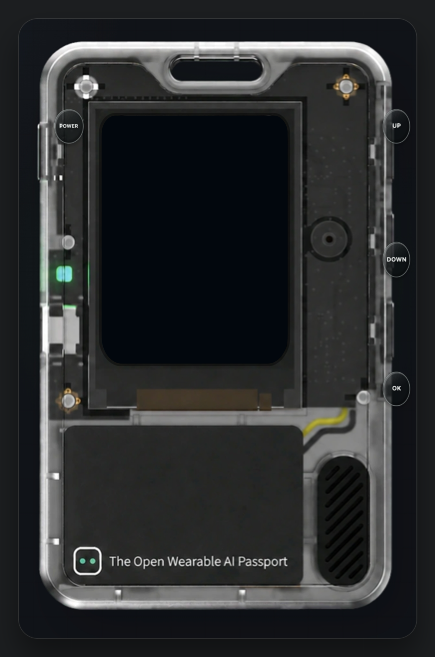
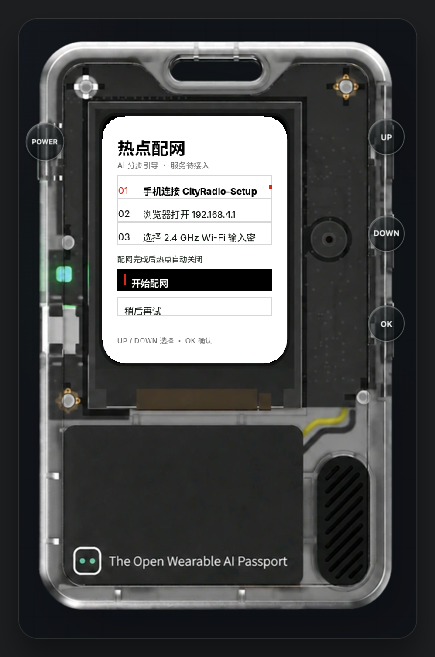
Center simulator controls on hardware keys

diff --git a/Sources/AIPassportFlasher/Views/SimulatorView.swift b/Sources/AIPassportFlasher/Views/SimulatorView.swift
@@ -760,6 +760,13 @@ final class SimulatorWebController: ObservableObject {
         await snapshot(configuration: nil)
     }
 
+    func setSnapshotNeutral(_ enabled: Bool) async {
+        guard let webView else { return }
+        _ = try? await webView.evaluateJavaScript(
+            "document.body.classList.toggle('apf-snapshot-neutral', \(enabled ? "true" : "false"))"
+        )
+    }
+
     private func snapshot(configuration: WKSnapshotConfiguration?) async -> NSImage? {
         guard let webView else { return nil }
         return await withCheckedContinuation { continuation in
@@ -1163,11 +1170,11 @@ enum SimulatorBridgeScript {
             button.classList.add('apf-long-ready');
             setTimeout(() => {
               button.classList.remove('apf-long-ready');
-              const path = button.querySelector('.apf-hold-ring rect');
+              const path = button.querySelector('.apf-hold-ring circle');
               if (path) path.style.strokeDashoffset = '1';
             }, 260);
           } else {
-            const path = button.querySelector('.apf-hold-ring rect');
+            const path = button.querySelector('.apf-hold-ring circle');
             if (path) path.style.strokeDashoffset = '1';
           }
         };
@@ -1175,7 +1182,7 @@ enum SimulatorBridgeScript {
           const visual = keyVisuals[key];
           const button = keyButtons.get(key);
           if (!button || !visual || !visual.hold || activeHolds.has(key)) return;
-          const path = button.querySelector('.apf-hold-ring rect');
+          const path = button.querySelector('.apf-hold-ring circle');
           const started = performance.now();
           button.classList.remove('apf-long-ready');
           button.classList.add('apf-holding');
@@ -1213,14 +1220,12 @@ enum SimulatorBridgeScript {
           if (visual.hold) {
             const ring = document.createElementNS('http://www.w3.org/2000/svg', 'svg');
             ring.classList.add('apf-hold-ring');
-            ring.setAttribute('viewBox', '0 0 32 48');
+            ring.setAttribute('viewBox', '0 0 32 32');
             ring.setAttribute('aria-hidden', 'true');
-            const path = document.createElementNS('http://www.w3.org/2000/svg', 'rect');
-            path.setAttribute('x', '2');
-            path.setAttribute('y', '2');
-            path.setAttribute('width', '28');
-            path.setAttribute('height', '44');
-            path.setAttribute('rx', '14');
+            const path = document.createElementNS('http://www.w3.org/2000/svg', 'circle');
+            path.setAttribute('cx', '16');
+            path.setAttribute('cy', '16');
+            path.setAttribute('r', '14');
             path.setAttribute('pathLength', '1');
             ring.append(path);
             button.append(ring);
@@ -1313,10 +1318,11 @@ enum SimulatorTheme {
       pointer-events: none !important;
     }
     .hardware-key.apf-physical-key {
-      width: 3.9% !important;
-      min-width: 28px !important;
-      height: 5.2% !important;
-      min-height: 28px !important;
+      width: clamp(36px, 5.2%, 42px) !important;
+      min-width: 36px !important;
+      height: auto !important;
+      min-height: 36px !important;
+      aspect-ratio: 1 / 1 !important;
       padding: 0 !important;
       overflow: visible !important;
       pointer-events: auto !important;
@@ -1327,7 +1333,7 @@ enum SimulatorTheme {
       background: transparent !important;
       box-shadow: none !important;
       text-shadow: none !important;
-      transform: translateY(0) scale(1) !important;
+      transform: translate(-50%, -50%) scale(1) !important;
       transition:
         transform .10s cubic-bezier(.2, .8, .2, 1),
         border-color .15s ease,
@@ -1357,13 +1363,13 @@ enum SimulatorTheme {
       display: grid;
       place-items: center;
       color: rgba(247, 251, 249, .90);
-      font: 650 clamp(6px, .72vw, 8px)/1 -apple-system, BlinkMacSystemFont, "SF Pro Text", sans-serif !important;
+      font: 650 clamp(8px, .92vw, 10.5px)/1 -apple-system, BlinkMacSystemFont, "SF Pro Text", sans-serif !important;
       letter-spacing: -.025em !important;
       text-shadow: 0 1px 2px rgba(0, 0, 0, .58);
       pointer-events: none;
     }
     .hardware-key.apf-physical-key.key-power .apf-key-label {
-      font-size: clamp(5px, .58vw, 6.5px) !important;
+      font-size: clamp(7px, .72vw, 8.5px) !important;
       letter-spacing: -.04em !important;
     }
     .hardware-key.apf-physical-key .apf-hold-ring {
@@ -1377,7 +1383,7 @@ enum SimulatorTheme {
       filter: drop-shadow(0 0 2px rgba(32, 228, 124, .45));
       transition: opacity .12s ease;
     }
-    .hardware-key.apf-physical-key .apf-hold-ring rect {
+    .hardware-key.apf-physical-key .apf-hold-ring circle {
       fill: none;
       stroke: #20E47C;
       stroke-width: 1.5;
@@ -1405,9 +1411,26 @@ enum SimulatorTheme {
         inset -1px -2px 3px rgba(0, 0, 0, .24),
         0 0 7px rgba(32, 228, 124, .22);
     }
+    body.apf-snapshot-neutral .hardware-key.apf-physical-key:hover {
+      background: transparent !important;
+      box-shadow: none !important;
+    }
+    body.apf-snapshot-neutral .hardware-key.apf-physical-key:hover .apf-key-face {
+      border-color: rgba(231, 241, 238, .34);
+      background:
+        linear-gradient(145deg, rgba(255, 255, 255, .18), rgba(255, 255, 255, .03) 36%, transparent 54%),
+        rgba(12, 17, 19, .58) !important;
+      box-shadow:
+        inset 1px 1px 0 rgba(255, 255, 255, .20),
+        inset -1px -2px 3px rgba(0, 0, 0, .34),
+        0 2px 4px rgba(0, 0, 0, .26);
+    }
+    body.apf-snapshot-neutral .hardware-key.apf-physical-key:focus-visible {
+      outline: none !important;
+    }
     .hardware-key.apf-physical-key:active,
     .hardware-key.apf-physical-key.is-pressed {
-      transform: translateY(1px) scale(.94) !important;
+      transform: translate(-50%, calc(-50% + 1px)) scale(.94) !important;
       background: transparent !important;
       box-shadow: none !important;
     }
@@ -1431,15 +1454,15 @@ enum SimulatorTheme {
     .hardware-key.apf-physical-key.key-up,
     .hardware-key.apf-physical-key.key-down,
     .hardware-key.apf-physical-key.key-ok {
-      left: 73% !important;
+      left: 73.5% !important;
     }
-    .hardware-key.apf-physical-key.key-up { top: 17.1% !important; }
-    .hardware-key.apf-physical-key.key-down { top: 36.8% !important; }
-    .hardware-key.apf-physical-key.key-ok { top: 55.8% !important; }
+    .hardware-key.apf-physical-key.key-up { top: 21.3% !important; }
+    .hardware-key.apf-physical-key.key-down { top: 35.5% !important; }
+    .hardware-key.apf-physical-key.key-ok { top: 48.8% !important; }
     .hardware-key.apf-physical-key.key-power {
-      left: 27.2% !important;
-      top: 17.1% !important;
-      width: 4.1% !important;
+      left: 25.9% !important;
+      top: 22% !important;
+      width: clamp(36px, 5.4%, 42px) !important;
     }
     """
 }

diff --git a/Sources/AIPassportFlasher/App/SnapshotDriver.swift b/Sources/AIPassportFlasher/App/SnapshotDriver.swift
@@ -111,6 +111,7 @@ enum SnapshotDriver {
         }
         await sleep(16)
         if let controller = SimulatorWebController.active {
+            await controller.setSnapshotNeutral(true)
             await captureSimulator(
                 window: window,
                 controller: controller,
@@ -118,6 +119,7 @@ enum SnapshotDriver {
             )
             await controller.captureDevice(to: dir.appendingPathComponent("real-simulator-buttons.png"))
             log("captured real-simulator-buttons.png")
+            await controller.setSnapshotNeutral(false)
         } else {
             await capture(window: window, to: dir.appendingPathComponent("real-simulator.png"))
         }
